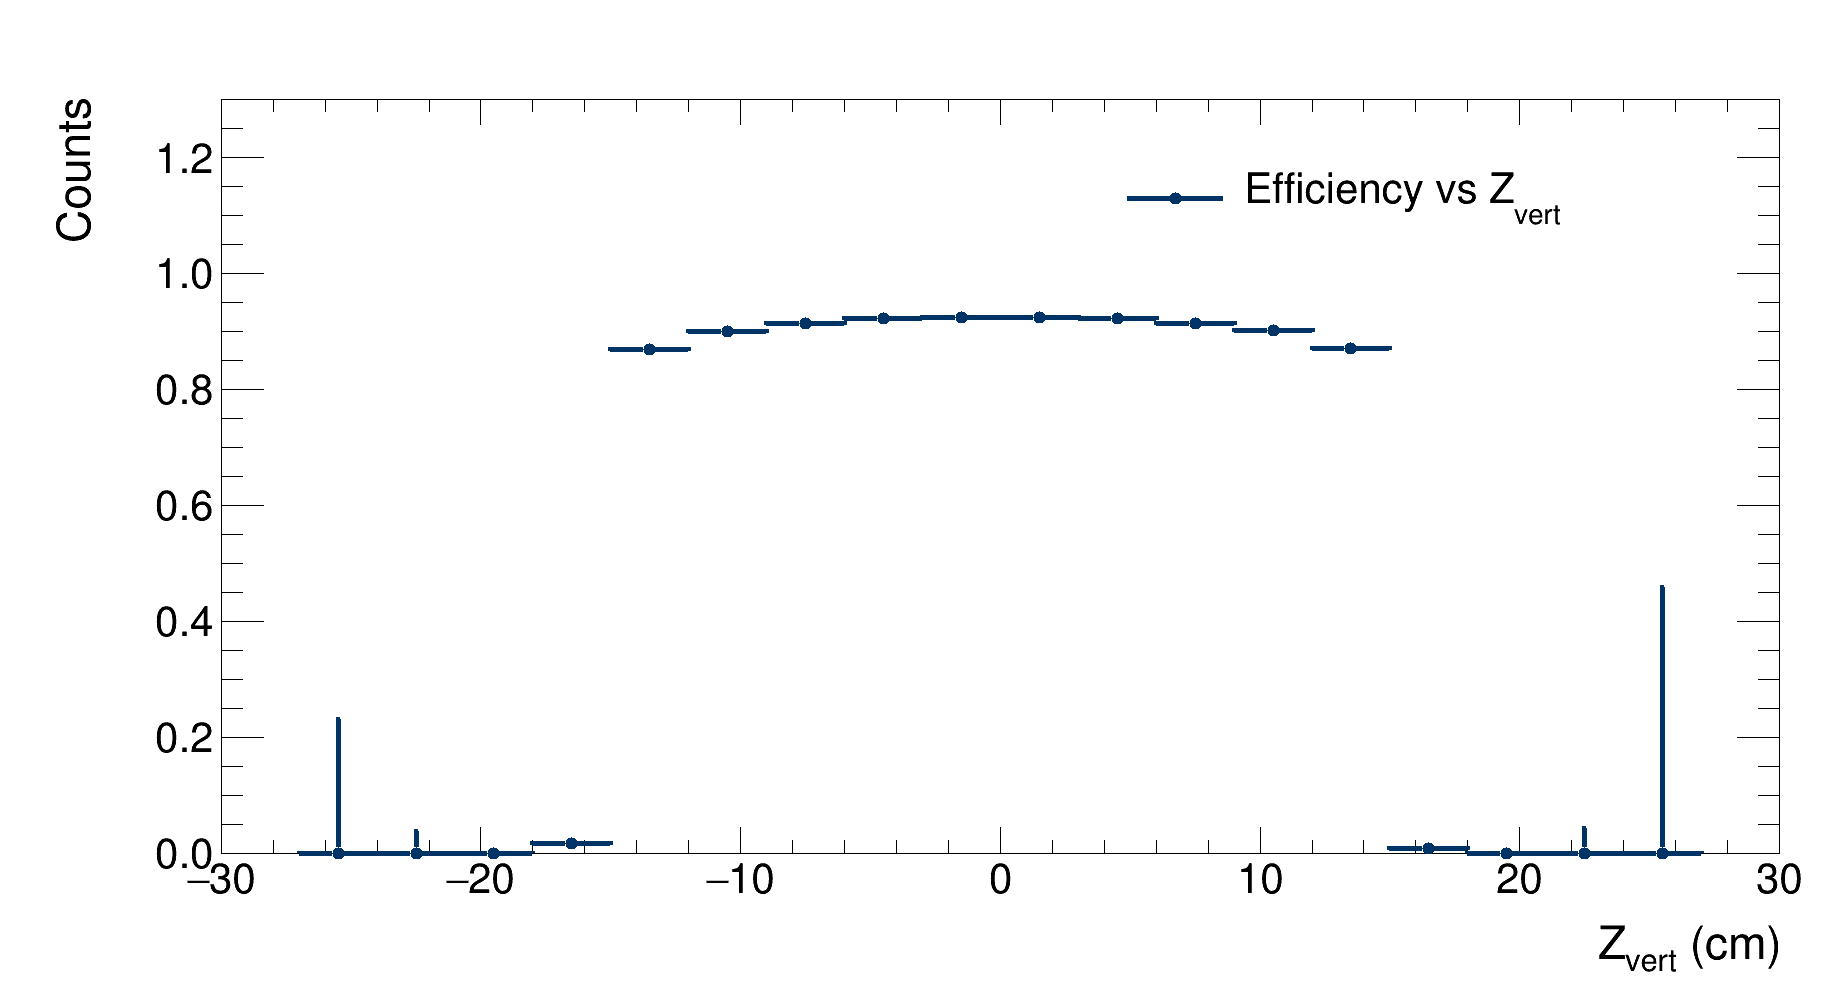
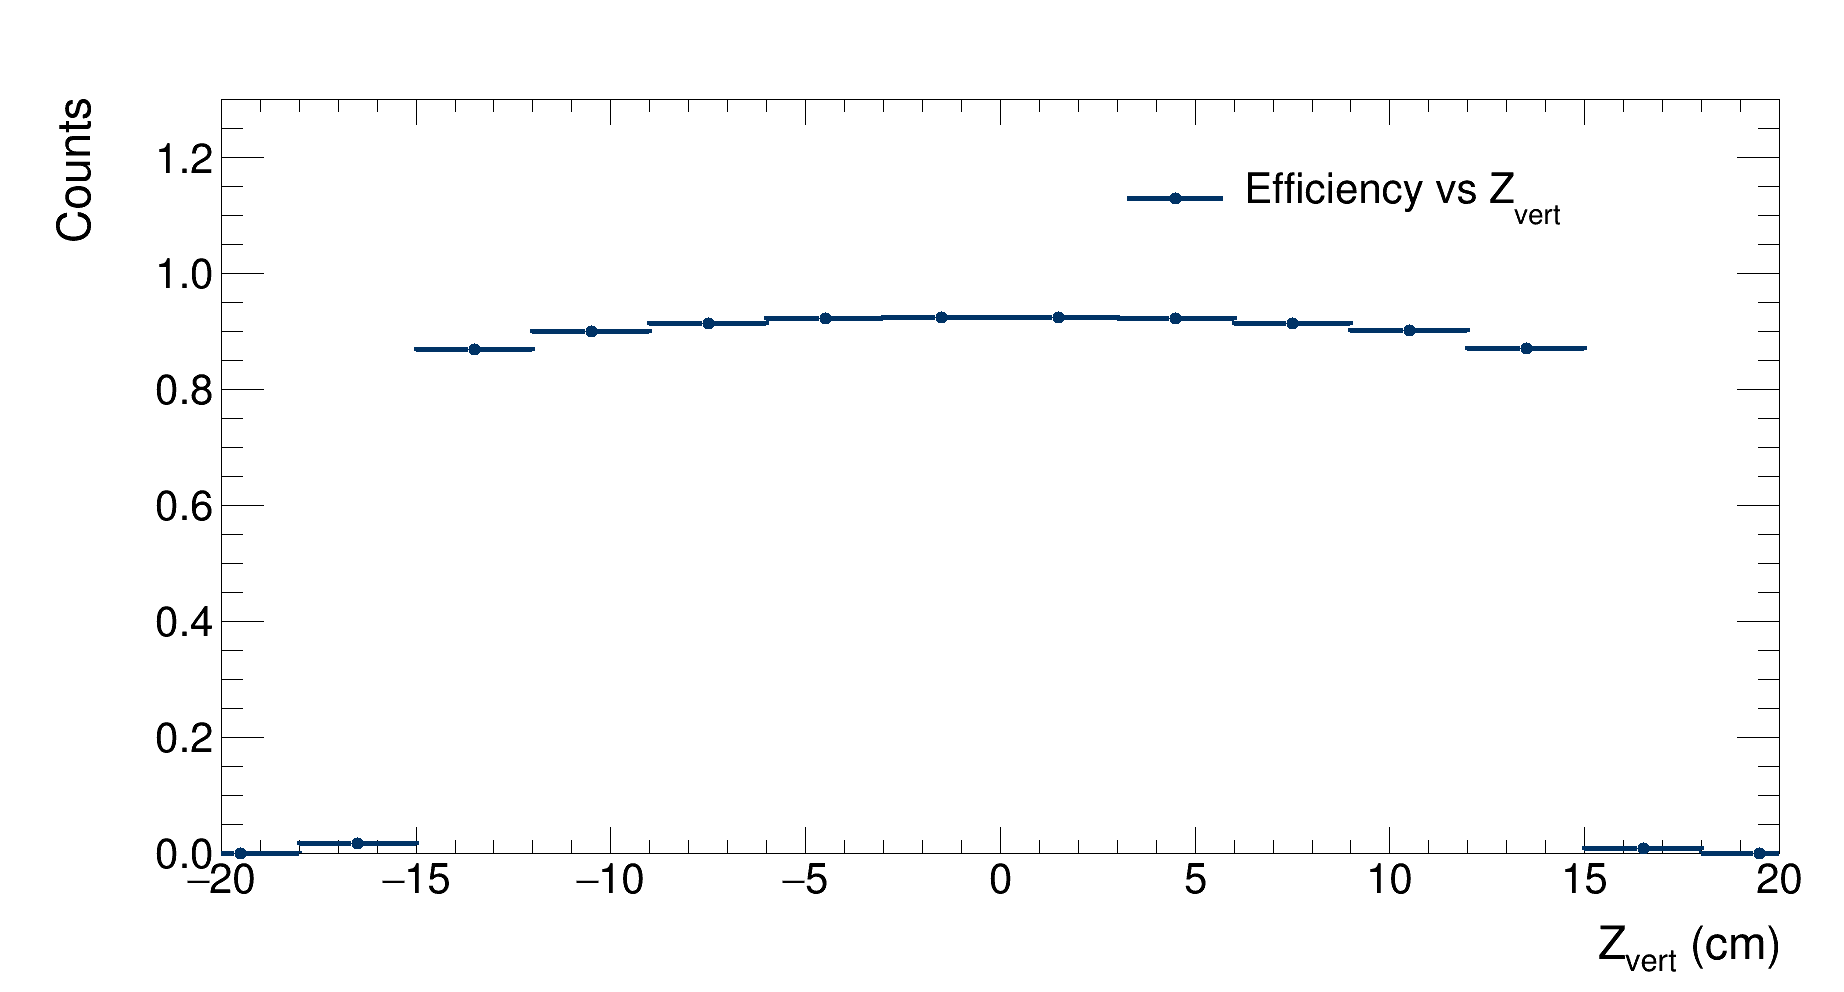
Added EffvsZ

diff --git a/docs/Results.md b/docs/Results.md
@@ -1,6 +1,6 @@
 ### Results
 
-Optimisation has been one of the main aspects we have worked on while developing this project. We wanted to deliver a fast, yet accurate simulation. We think we managed to obtain good results, with a full simulation and reconstruction of 1 million events being run in under 1:30 minutes. (CHECK TIME)
+Optimisation has been one of the main aspects we have worked on while developing this project. We wanted to deliver a fast, yet accurate simulation. We think we managed to obtain good results, with a full simulation and reconstruction of 1 million events being run in under 1:30 minutes.
 
 Following are the results of some simulations that we ran with different configurations. A comparison between them can be found at the end of the page
 
@@ -13,7 +13,7 @@ Configuration:
 - $\sigma_{x}=0.01$ cm, $\sigma_{y}=0.01$ cm, $\sigma_{z}=5.3$ cm
 - Beam pipe radius: $3$ cm
 - Detectors radii: $4$cm, $7$cm
-- Mean noise: 10
+- Noise: no
 
 ##### Simulation
 
@@ -63,4 +63,5 @@ As expected, the resolution reaches its minimum when the vertex is generated at 
 |:--:| 
 |Detector's effuciency as a function of the Z coordinate of the generated vertex|
 
+As expected, the efficieny peaks when the vertex is generated at the center of the detector; it then drops when the particles are generated outside the detector.
 
